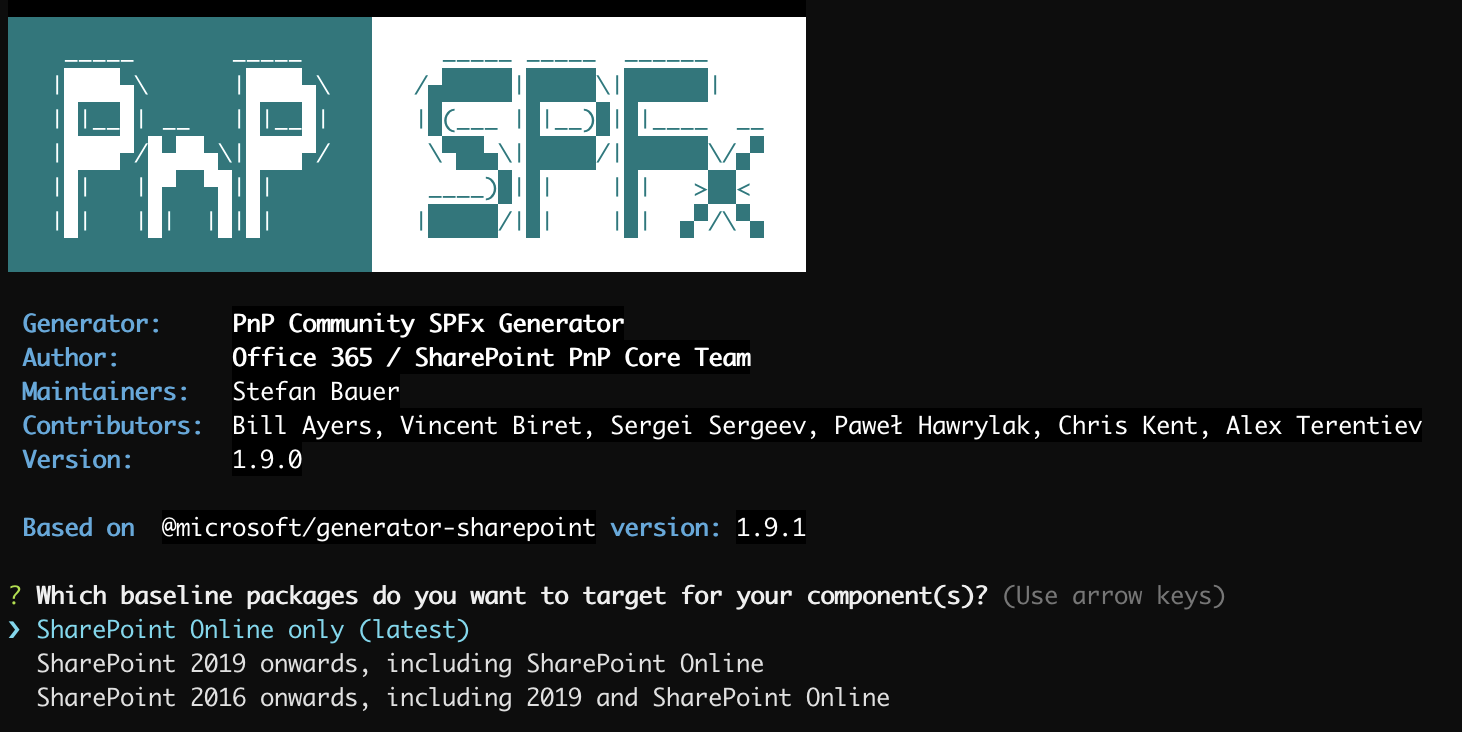
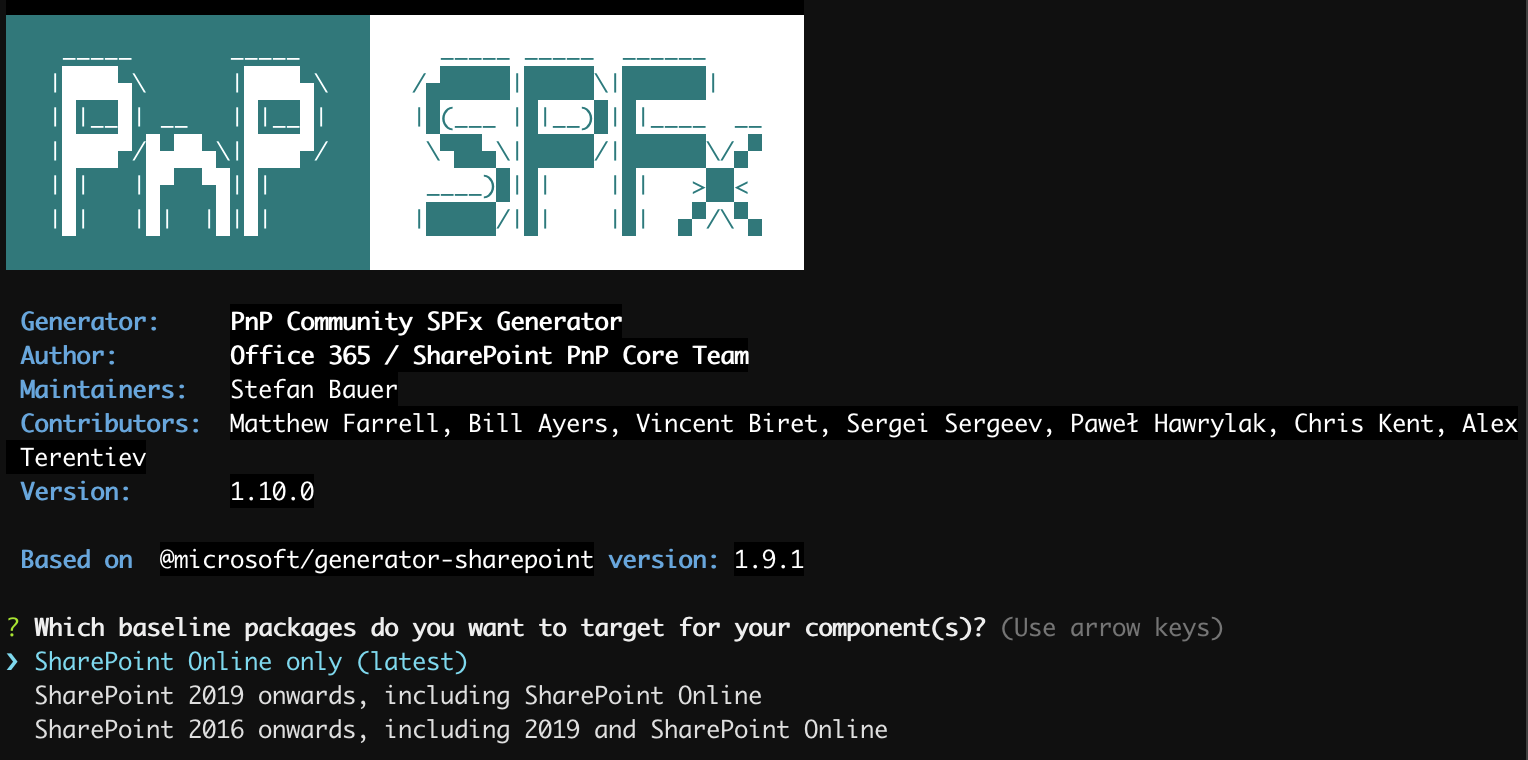
Update to pnp/spfx v1.10.0

Changed region(s): [[0.0, 0.0, 1.0, 0.6612], [0.0, 0.7814, 0.8311, 0.9918], [0.0, 0.6913, 0.554, 0.7514]]

diff --git a/generators/vuejs/templates/gulpfile.js b/generators/vuejs/templates/gulpfile.js
@@ -28,8 +28,7 @@ const ForkTsCheckerWebpackPlugin = require('fork-ts-checker-webpack-plugin');
                 resourceQuery: /vue&type=script&lang=ts/, // typescript
                 loader: 'ts-loader',
                 options: {
-                    appendTsSuffixTo: [/\.vue$/],
-                    transpileOnly: true
+                    appendTsSuffixTo: [/\.vue$/]
                 }
             }, {
                 resourceQuery: /vue&type=style.*&lang=scss/, // scss

diff --git a/docs/release-notes.md b/docs/release-notes.md
@@ -1,10 +1,32 @@
 # Release Notes
 
+# 1.10.0 Support for Angular 8 added
+- Angular Bundle, link and Scaffolding fix [#206](https://github.com/pnp/generator-spfx/issues/206)
+- Updated VueJS
+- Update Handlebars with improved partials and helper support
+[Upgrade Handlebar Projects](https://pnp.github.io/generator-spfx/howtos/handlebars-upgrade/)
+- TypeScript support for 2.9, 3.0, 3.1, 3.2, 3.3, 3.4, 3.5
+- Suppor for library components is broken in @microsoft/generator-sharePoint. [#195](https://github.com/pnp/generator-spfx/issues/195), [sp-dev-docs#4554](https://github.com/SharePoint/sp-dev-docs/issues/4554)
+
+**Includes**
+
+- **Office UI Fabric** - 5.x, 6.x, 6.x Fluent
+- **pnp/pnpjs** - 1.3.5
+- **pnp/spfx-property-controls** - 1.16.0
+- **pnp/spfx-controls-react** - 1.14.0
+- **jQuery** - 3.4.1
+- **webpack-bundle-analyzer** - 3.5.1
+- **Handlebars** - 4.3.0
+- **Vue** - 2.6.10
+- **Office 365 CLI** - 1.23.0
+- **StyleLint** - 11.0.0
+
+ 
 # 1.9.1 Support for Angular 8 added
 - Angular Elements option supports now Angular 6/7 and 8
 - [#199 fixed](https://github.com/pnp/generator-spfx/issues/199) --skip-install not honored when pnpm gets used.
 - TypeScript support for 2.9, 3.0, 3.1, 3.2, 3.3, 3.4, 3.5
-- Suppor for library components is broken in @microsoft/generator-sharePoint. [#195](https://github.com/pnp/generator-spfx/issues/195), [sp-dev-docs#4554](https://github.com/SharePoint/sp-dev-docs/issues/4554)
+- Suppor tfor library components is broken in @microsoft/generator-sharePoint. [#195](https://github.com/pnp/generator-spfx/issues/195), [sp-dev-docs#4554](https://github.com/SharePoint/sp-dev-docs/issues/4554)
 
 # 1.9.0 Update to SPFx 1.9.1
 - Upgrade to SPFx 1.9.1

diff --git a/docs/howtos/handlebars-upgrade.md b/docs/howtos/handlebars-upgrade.md
@@ -1,4 +1,4 @@
-# Upgrade Handlebars < pnp/spfx 1.9.1
+# Upgrade Handlebar Projects > pnp/spfx 1.9.1
 
 The pnp/spfx generator comes in version 1.20.0 with a new webpack HandlebarsJS loader. The following steps are required to upgrade older projects before 1.10.0.
 
